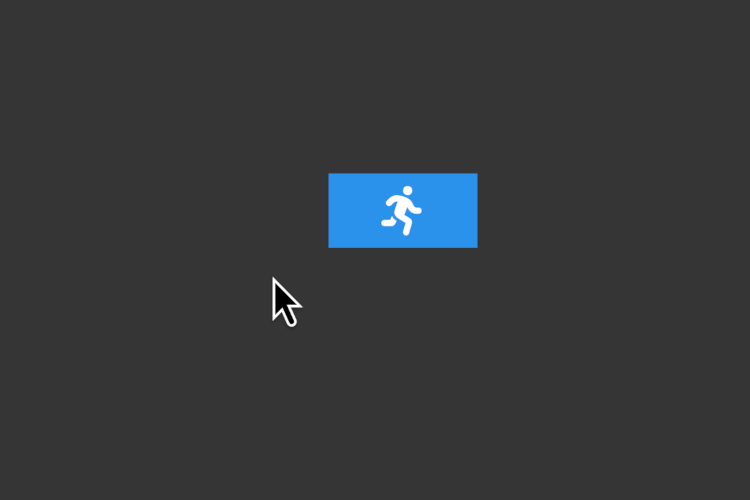
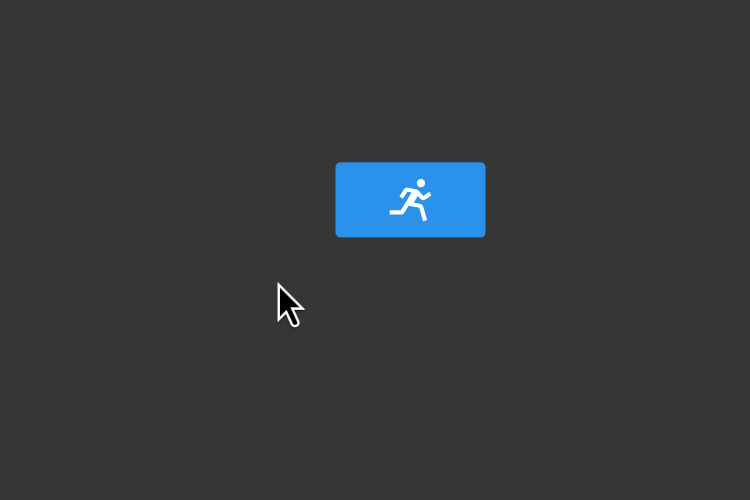
Migrate to boxicon

Changed region(s): [[0.4293, 0.3, 0.6747, 0.51], [0.3373, 0.57, 0.3987, 0.66]]

diff --git a/code/build/workers/icon_libraries.ts b/code/build/workers/icon_libraries.ts
@@ -1,7 +1,7 @@
 import { readFile } from 'node:fs/promises'
 import { basename, dirname, join as joinPath, relative } from 'node:path'
 
-import { Schema } from '../../common/validation.ts'
+import { type Infer, Schema } from '../../common/validation.ts'
 import { readJsonWithSchema } from '../../server/validation.ts'
 import { type IBuildContext, type IBuildWorker } from '../build_worker.ts'
 import { BuildError } from '../errors.ts'
@@ -13,7 +13,15 @@ export interface IIconLibraryBuildWorkerConfig {
   destBase: string
 }
 
-const ICON_LIBRARY_SOURCE_SCHEMA = Schema.array(Schema.string)
+export const ICON_CONFIG_SCHEMA = Schema.object({
+  pack: Schema.string,
+  name: Schema.string,
+  exportAs: Schema.optional(Schema.string),
+})
+
+export type IIconConfig = Infer<typeof ICON_CONFIG_SCHEMA>
+
+const ICON_LIBRARY_SOURCE_SCHEMA = Schema.array(ICON_CONFIG_SCHEMA)
 
 export class IconLibraryBuildWorker implements IBuildWorker {
   readonly config: IIconLibraryBuildWorkerConfig
@@ -32,11 +40,10 @@ export class IconLibraryBuildWorker implements IBuildWorker {
 
   async* performBuild(src: string): AsyncIterable<IBuildContext> {
     const iconSource = await readJsonWithSchema(ICON_LIBRARY_SOURCE_SCHEMA, src)
-    const promises = iconSource.map(name => readPathFromIconFile(name))
-    const iconObjects = await Promise.all(promises)
+    const iconObjects = await Promise.all(iconSource.map(readPathFromIconFile))
 
     const symbols = iconObjects
-      .map(({ name, viewBox, path }) => `<symbol id="${name}" viewBox="${viewBox}"><path d="${path}"/></symbol>`)
+      .map(({ config, viewBox, contents }) => `<symbol id="${config.exportAs ?? config.name}" viewBox="${viewBox}">${contents}</symbol>`)
       .join('')
 
     const result = `<?xml version="1.0" encoding="utf-8"?><svg xmlns="http://www.w3.org/2000/svg">${symbols}</svg>`
@@ -49,20 +56,31 @@ export class IconLibraryBuildWorker implements IBuildWorker {
   }
 }
 
-const FONTAWESOME_SVG_REGEX = /<svg xmlns="http:\/\/www.w3.org\/2000\/svg" viewBox="(?<viewBox>.*)">.*<path d="(?<path>.*)"\/><\/svg>/
+const BOXICON_SVG_REGEX = /<svg xmlns="http:\/\/www.w3.org\/2000\/svg" (viewBox="(?<viewBox>[^"]+)" )?width="(?<width>\d+)" height="(?<height>\d+)">(?<contents>.*)<\/svg>/
 
-async function readPathFromIconFile(name: string) {
-  const fileName = `submodules/fontawesome/svgs/${name}.svg`
-  const svg = await readFile(fileName, 'utf8')
-  const match = svg.match(FONTAWESOME_SVG_REGEX)
+async function readPathFromIconFile(config: IIconConfig) {
+  const filePath = `node_modules/@boxicons/core/svg/${config.pack}/bx-${config.name}.svg`
+  let svg: string
+
+  try {
+    svg = await readFile(filePath, 'utf-8')
+  } catch (err) {
+    if (err instanceof Error && 'code' in err && err.code === 'ENOENT') {
+      throw new IconBuildError(`Cannot find icon with name ${config.name} in pack ${config.pack}`)
+    }
+
+    throw err
+  }
+
+  const match = svg.match(BOXICON_SVG_REGEX)
 
   if (match === null || match.groups === undefined) {
-    throw new IconBuildError(`Unrecognized file format for ${fileName}`)
+    throw new IconBuildError(`Could not parse SVG for icon ${config.name} from pack ${config.pack}`)
   }
 
   return {
-    name,
-    viewBox: match.groups.viewBox,
-    path: match.groups.path,
+    config,
+    viewBox: match.groups.viewBox ?? `0 0 ${match.groups.width} ${match.groups.height}`,
+    contents: match.groups.contents,
   }
 }

diff --git a/code/common/components/main_menu.ts b/code/common/components/main_menu.ts
@@ -4,9 +4,9 @@ import { icon } from './icon.ts'
 import { type WebsiteEnvironment } from '../environment.ts'
 import { radio } from './radio.ts'
 import { type WebsiteLanguageId } from '../languages.ts'
+import { map } from '../observable.ts'
 import { createComponent as c } from '../rendering/component.ts'
 import { type NavigationId } from '../types/page.ts'
-import { map } from '../observable.ts'
 
 interface INavigationState {
   navId?: NavigationId
@@ -21,28 +21,28 @@ export function mainMenu({ navId }: INavigationState, env: WebsiteEnvironment) {
         c.factory(mainMenuEntry, {
           active: navId === 'home',
           text: _('main_menu.page.home'),
-          icon: 'solid/house',
+          icon: 'home',
           href: '/',
         }),
 
         c.factory(mainMenuEntry, {
           active: navId === 'files',
           text: _('main_menu.page.files'),
-          icon: 'solid/folder',
+          icon: 'files',
           href: '/files',
         }),
 
         c.factory(mainMenuEntry, {
           active: navId === 'pacman',
           text: _('main_menu.page.pacman'),
-          icon: 'solid/download',
+          icon: 'pacman',
           href: '/pacman',
         }),
 
         c.factory(mainMenuEntry, {
           active: navId === 'playground',
           text: _('main_menu.page.playground'),
-          icon: 'solid/code',
+          icon: 'playground',
           href: '/playground',
         }),
       ),
@@ -81,7 +81,7 @@ export function mainMenu({ navId }: INavigationState, env: WebsiteEnvironment) {
                 text: langChoice.label,
                 iconLibId: 'core',
                 iconName: env.gettext.language$.pipe(
-                  map(lang => lang === langChoice.language ? 'solid/toggle-on' : 'solid/toggle-off'),
+                  map(lang => lang === langChoice.language ? 'radio-on' : 'radio-off'),
                 ),
               },
             ),
@@ -97,7 +97,7 @@ export function mainMenu({ navId }: INavigationState, env: WebsiteEnvironment) {
           disabled: !env.isContentDynamic(),
           text: _('main_menu.button.color_scheme'),
           iconLibId: 'core',
-          iconName: 'solid/lightbulb',
+          iconName: 'lightbulb',
           async click() {
             await env.toggleColorScheme()
           },

diff --git a/code/common/pages/home.ts b/code/common/pages/home.ts
@@ -74,28 +74,28 @@ export function homePage(pageState: IWebsitePageState, env: WebsiteEnvironment) 
       c.html('ul', { class: 'home-page-contacts-list' },
         c.html('li', { class: 'home-page-contacts-entry' },
           c.factory(anchor, { class: 'anchor-with-icon', href: EMAIL_URL },
-            c.factory(icon, { libId: 'contacts', name: 'solid/envelope' }),
+            c.factory(icon, { libId: 'contacts', name: 'email' }),
             c.html('span', { text: 'Email' }),
           ),
         ),
 
         c.html('li', { class: 'home-page-contacts-entry' },
           c.factory(anchor, { class: 'anchor-with-icon', href: TELEGRAM_URL },
-            c.factory(icon, { libId: 'contacts', name: 'brands/telegram' }),
+            c.factory(icon, { libId: 'contacts', name: 'telegram' }),
             c.html('span', { text: 'Telegram' }),
           ),
         ),
 
         c.html('li', { class: 'home-page-contacts-entry' },
           c.factory(anchor, { class: 'anchor-with-icon', href: MASTODON_URL, rel: 'me' },
-            c.factory(icon, { libId: 'contacts', name: 'brands/mastodon' }),
+            c.factory(icon, { libId: 'contacts', name: 'mastodon' }),
             c.html('span', { text: 'Mastodon' }),
           ),
         ),
 
         c.html('li', { class: 'home-page-contacts-entry' },
           c.factory(anchor, { class: 'anchor-with-icon', href: GITHUB_USER_URL },
-            c.factory(icon, { libId: 'contacts', name: 'brands/github' }),
+            c.factory(icon, { libId: 'contacts', name: 'github' }),
             c.html('span', { text: 'GitHub' }),
           ),
         ),

diff --git a/code/common/components/compact_navbar.ts b/code/common/components/compact_navbar.ts
@@ -35,7 +35,7 @@ export function compactNavbar({ navId }: INavbarState, env: WebsiteEnvironment) 
       },
       c.factory(icon, {
         libId: 'core',
-        name: 'solid/bars',
+        name: 'menu',
       }),
     ),
 
@@ -44,7 +44,7 @@ export function compactNavbar({ navId }: INavbarState, env: WebsiteEnvironment) 
         class: 'compact-navbar-button compact-navbar-button-color',
         disabled: !env.isContentDynamic(),
         iconLibId: 'core',
-        iconName: 'solid/lightbulb',
+        iconName: 'lightbulb',
         async click() {
           await env.toggleColorScheme()
         },
@@ -64,7 +64,7 @@ export function compactNavbar({ navId }: INavbarState, env: WebsiteEnvironment) 
           class: 'compact-navbar-dialog-close-button',
           text: _('main_menu.button.close_menu'),
           iconLibId: 'core',
-          iconName: 'solid/bars',
+          iconName: 'menu',
           // Webkit only recently added support for `command` and `commandfor`, so we are stuck with manually showing the modal
           // TODO: Migrate to the attributes
           // command: 'close',

diff --git a/code/client/fleeing_button/components/fleeing_button_stage.ts b/code/client/fleeing_button/components/fleeing_button_stage.ts
@@ -24,6 +24,7 @@ interface IFleeingButtonStageState {
 }
 
 const SVG_VIEW_BOX = [STAGE.getLeftPos(), STAGE.getTopPos(), STAGE.width, STAGE.height].join(' ')
+const BUTTON_BORDER_RADIUS = 0.01
 
 export function fleeingButtonStage({ store }: IFleeingButtonStageState, env: ClientWebsiteEnvironment) {
   const _ = env.gettext.bindToBundle('fleeing_button')
@@ -113,6 +114,8 @@ export function fleeingButtonStage({ store }: IFleeingButtonStageState, env: Cli
       c.svg('rect',
         {
           class: 'fleeing-button',
+          rx: BUTTON_BORDER_RADIUS,
+          ry: BUTTON_BORDER_RADIUS,
           x: -BUTTON_SIZE.x / 2,
           y: -BUTTON_SIZE.y / 2,
           width: BUTTON_SIZE.x,
@@ -143,7 +146,7 @@ export function fleeingButtonStage({ store }: IFleeingButtonStageState, env: Cli
       c.factory(iconContent, {
         class: 'fleeing-button-icon',
         libId: 'fleeing_button',
-        name: 'solid/person-running',
+        name: 'runner',
       }),
     ),
   )

diff --git a/code/client/breakout/components/breakout_controller_buttons.ts b/code/client/breakout/components/breakout_controller_buttons.ts
@@ -21,7 +21,7 @@ export function breakoutControllerButtons({ store }: IBreakoutControllerButtonsS
           store,
           class: 'breakout-controller-button-left',
           iconLibraryId: 'core',
-          iconName: 'solid/chevron-left',
+          iconName: 'chevron-left',
 
           pointerdown(event: MouseEvent) {
             handleLeftButtonDown(getEventParams(store, env, event))
@@ -40,7 +40,7 @@ export function breakoutControllerButtons({ store }: IBreakoutControllerButtonsS
           store,
           class: 'breakout-controller-button-right',
           iconLibraryId: 'core',
-          iconName: 'solid/chevron-right',
+          iconName: 'chevron-right',
 
           pointerdown(event: MouseEvent) {
             handleRightButtonDown(getEventParams(store, env, event))

diff --git a/code/common/pages/placeholder.ts b/code/common/pages/placeholder.ts
@@ -9,7 +9,7 @@ export function placeholder({ urlPath }: IWebsitePageState, env: WebsiteEnvironm
 
   return c.html('main', { class: 'placeholder-page' },
     c.html('noscript', { class: 'placeholder-page-unsupported' },
-      c.factory(icon, { libId: 'placeholder', name: 'solid/ban', class: 'icon-huge placeholder-page-unsupported-icon' }),
+      c.factory(icon, { libId: 'core', name: 'ban', class: 'icon-huge placeholder-page-unsupported-icon' }),
       c.html('h1', { text: _('heading.unsupported') }),
       c.factory(rich, {
         doc: _.rich$({

diff --git a/code/common/components/paginator.ts b/code/common/components/paginator.ts
@@ -30,7 +30,7 @@ function* iterPaginators(pageCount: uint32, currentPage: uint32, getUpdatedPath:
     c.factory(icon, {
       class: 'paginator-anchor-icon',
       libId: 'core',
-      name: 'solid/chevron-left',
+      name: 'chevron-left',
     }),
   )
 
@@ -61,7 +61,7 @@ function* iterPaginators(pageCount: uint32, currentPage: uint32, getUpdatedPath:
     c.factory(icon, {
       class: 'paginator-anchor-icon',
       libId: 'core',
-      name: 'solid/chevron-right',
+      name: 'chevron-right',
     }),
   )
 }

diff --git a/client/styles/_sizes.scss b/client/styles/_sizes.scss
@@ -73,13 +73,13 @@ $icon-size-padding-huge-dense: 0.8em;
   --button-size-hpadding: 1.3em;
   --button-size-vpadding: 0.3em;
   --button-size-outline-offset: -2px;
-  --button-size-icon-diameter: 1.3em;
+  --button-size-icon-diameter: 1.5em;
   --button-size-gap: 1.2em;
   --button-size-width: auto;
   --button-size-border-radius: var(--body-size-border-radius);
 
   // Anchor
-  --anchor-size-icon-diameter: 1em;
+  --anchor-size-icon-diameter: 1.5em;
   --anchor-size-gap: 0.8em;
 
   // Controls

diff --git a/code/common/components/interactive_table.ts b/code/common/components/interactive_table.ts
@@ -71,11 +71,11 @@ export function interactiveTable<T = unknown>(
 function getSvgIconFromDirection(direction: SortDirection) {
   switch (direction) {
     case 'asc':
-      return 'solid/sort-up'
+      return 'sort-asc'
     case 'desc':
-      return 'solid/sort-down'
+      return 'sort-desc'
     case 'neutral':
-      return 'solid/sort'
+      return 'sort'
   }
 }
 

diff --git a/code/client/core/components/playground_menu.ts b/code/client/core/components/playground_menu.ts
@@ -37,7 +37,7 @@ export function playgroundMenu({ submenu, stickTop, stickBottom }: IPlaygroundMe
           class: 'playground-menu-drawer-toggle',
           popovertarget: 'playground-menu-drawer-popover',
           iconLibId: 'core',
-          iconName: 'solid/bars',
+          iconName: 'menu',
         },
       ),
       c.html('form',

diff --git a/code/common/pages/error.ts b/code/common/pages/error.ts
@@ -16,7 +16,7 @@ export function errorPage(pageState: IWebsitePageState<IEncodedError>, env: Webs
   return c.html('main', { class: 'error-page' },
     c.factory(icon, {
       libId: 'core',
-      name: 'solid/triangle-exclamation',
+      name: 'warning',
       class: 'icon-huge error-page-icon',
     }),
     c.factory(rich, {
